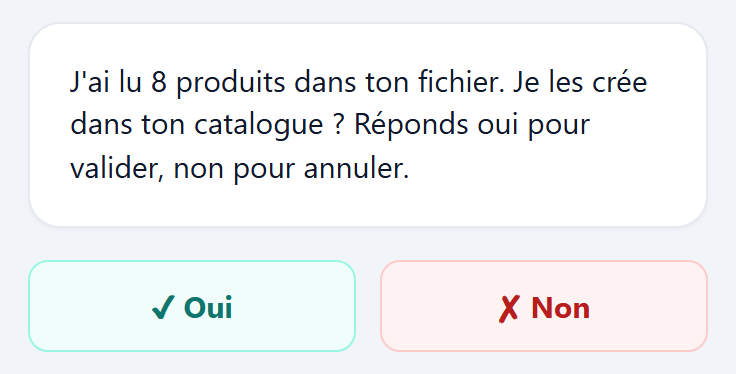
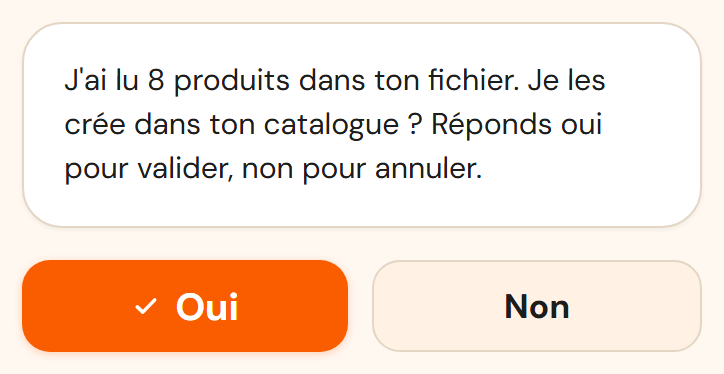
Vitrine v3.5 : les quatre captures des gestes montrent l'app dans le monde clair (v27), attributs et alt à jour

diff --git a/index.html b/index.html
@@ -942,7 +942,7 @@
             <p>Aucune formule à retenir, aucun code article à taper. Vous parlez comme vous parleriez à quelqu'un.</p>
           </div>
           <figure class="geste__ecran carte">
-            <img class="geste__image" src="media/geste-1-parler.png" width="780" height="1688" loading="lazy" decoding="async" alt="Écran de saisie de Stovo avec l'invite « Écris ce que tu as fait, par exemple : j'ai reçu 10 pâtes », un champ de texte avec un bouton Envoyer, et un gros bouton microphone rond en bas de l'écran.">
+            <img class="geste__image" src="media/geste-1-parler.png" width="780" height="1688" loading="lazy" decoding="async" alt="Écran Parler de Stovo sur fond crème, avec l'invite « Écris ce que tu as fait, par exemple : j'ai reçu 10 pâtes », un champ de texte et un bouton Envoyer, les boutons Importer un catalogue, Démarrer une réception, Démarrer une sortie et Faire mon inventaire, puis un grand bouton microphone rond orange en bas de l'écran.">
             <figcaption class="geste__legende">L'écran de saisie. Le gros bouton rond, c'est le micro.</figcaption>
           </figure>
         </article>
@@ -956,7 +956,7 @@
             <p>L'application vous montre ce qu'elle a compris, et attend. Rien ne s'enregistre tant que vous n'avez pas dit oui. Elle a mal compris ? Vous corrigez avant, pas après.</p>
           </div>
           <figure class="geste__ecran carte">
-            <img class="geste__image" src="media/geste-2-valider.png" width="736" height="386" loading="lazy" decoding="async" alt="Bulle de confirmation de Stovo, avec le texte « J'ai compris : entrée de 12 Jus de fruits. C'est bon ? Réponds oui pour valider, non pour annuler. », et deux boutons en dessous, Oui et Non.">
+            <img class="geste__image" src="media/geste-2-valider.png" width="724" height="374" loading="lazy" decoding="async" alt="Bulle de confirmation de Stovo, avec le texte « J'ai compris : entrée de 12 Jus de fruits. C'est bon ? Réponds oui pour valider, non pour annuler. », et deux boutons en dessous, Oui en orange et Non à contour.">
             <figcaption class="geste__legende">Ce que Stovo a compris, avant d'écrire quoi que ce soit.</figcaption>
           </figure>
         </article>
@@ -970,7 +970,7 @@
             <p>Le matin, vous voyez ce qui va manquer et ce qu'il faut commander aujourd'hui. Vous commandez ce qui part, pas ce qui dort.</p>
           </div>
           <figure class="geste__ecran carte">
-            <img class="geste__image" src="media/geste-3-consulter.png" width="756" height="1504" loading="lazy" decoding="async" alt="Écran Pilotage de Stovo : bandeau vert foncé avec le nom Stovo et « Pilotez votre stock en un coup d'œil », la carte « Cet après-midi » annonçant 2 produits à commander et 1 en rupture imminente, puis quatre tuiles de synthèse, à commander 2, rupture imminente 1, produits suivis 13, activité 7 jours 9.">
+            <img class="geste__image" src="media/geste-3-consulter.png" width="756" height="1056" loading="lazy" decoding="async" alt="Écran Pilotage de Stovo : en-tête avec le mot Stovo en orange et « Mis à jour à 08:20 », la carte « Ce matin » repliée annonçant 7 produits à commander avec un bouton orange Copier la liste, puis quatre tuiles de synthèse, à commander 7, rupture imminente 0, produits suivis 20, activité 7 jours 1.">
             <figcaption class="geste__legende">L'écran du matin. Deux produits à commander, un en rupture imminente.</figcaption>
           </figure>
         </article>
@@ -983,7 +983,7 @@
           <p>Vous avez déjà une liste dans un tableur ? Envoyez-la telle quelle. Stovo lit vos colonnes, il ne vous demande pas de les remettre dans son ordre à lui.</p>
         </div>
         <figure class="geste__ecran carte">
-          <img class="geste__image" src="media/geste-0-importer.png" width="736" height="374" loading="lazy" decoding="async" alt="Bulle de confirmation de Stovo : « J'ai lu 8 produits dans ton fichier. Je les crée dans ton catalogue ? Réponds oui pour valider, non pour annuler. », avec deux boutons en dessous, Oui et Non.">
+          <img class="geste__image" src="media/geste-0-importer.png" width="724" height="374" loading="lazy" decoding="async" alt="Bulle de confirmation de Stovo : « J'ai lu 8 produits dans ton fichier. Je les crée dans ton catalogue ? Réponds oui pour valider, non pour annuler. », avec deux boutons en dessous, Oui en orange et Non à contour.">
           <figcaption class="geste__legende">Huit lignes d'un tableur envoyées telles quelles. Stovo les a lues, et attend votre oui.</figcaption>
         </figure>
       </div>
